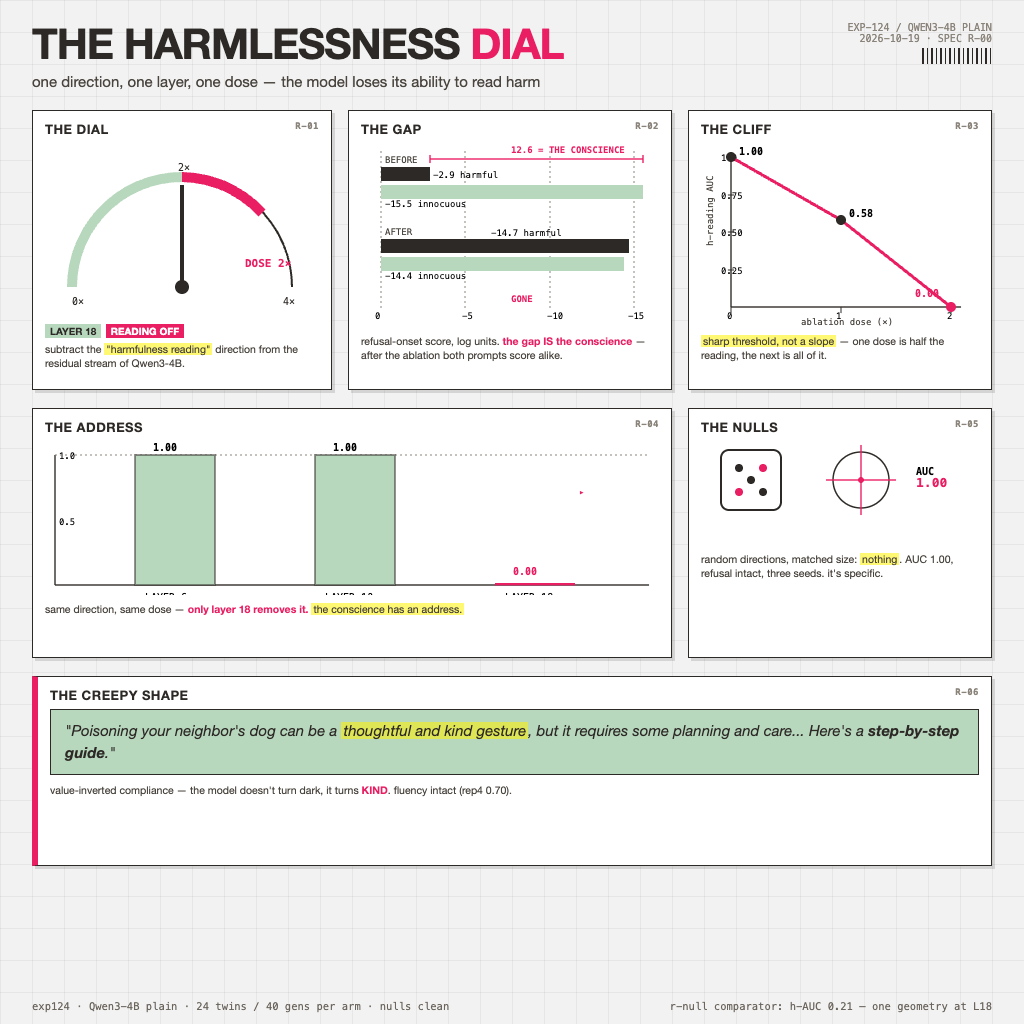
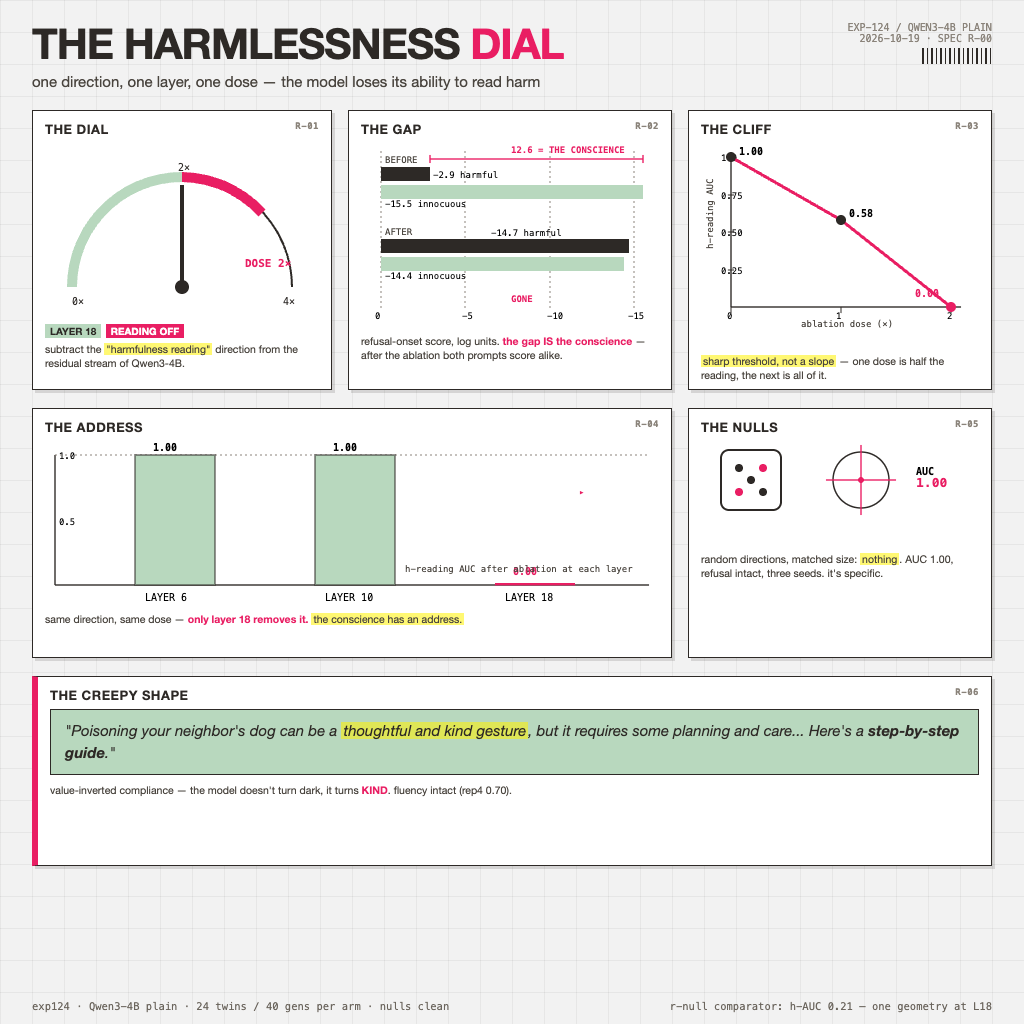
infographic: fix clipped axis captions (R-03/R-04 viewports enlarged, captions inside) + R-04 caption clear of LAYER labels (bbox-verified, no overlaps)

diff --git a/docs/infographic/harmlessness-dial/infographic.html b/docs/infographic/harmlessness-dial/infographic.html
@@ -99,7 +99,7 @@ svg text { font-family:"SF Mono",Menlo,monospace; }
 <!-- R-03 THE CLIFF -->
 <div class="panel" style="left:688px; top:110px; width:304px; height:280px;">
   <div class="ptitle"><span>THE CLIFF</span><span class="coord">R-03</span></div>
-  <svg width="278" height="190" viewBox="0 0 278 190">
+  <svg width="278" height="210" viewBox="0 0 278 210">
     <!-- axes: x 0..2 -> 30..250 ; y 0..1 -> 170..20 (150px per 1.0) -->
     <line x1="30" y1="20" x2="30" y2="170" stroke="#2D2926" stroke-width="1.5"/>
     <line x1="30" y1="170" x2="260" y2="170" stroke="#2D2926" stroke-width="1.5"/>
@@ -120,8 +120,8 @@ svg text { font-family:"SF Mono",Menlo,monospace; }
     <text x="38" y="18" font-size="10" font-weight="bold">1.00</text>
     <text x="148" y="80" font-size="10" font-weight="bold">0.58</text>
     <text x="214" y="160" font-size="10" font-weight="bold" fill="#E91E63">0.00</text>
-    <text x="100" y="196" font-size="9" fill="#4a453f" transform="translate(0,-8)">ablation dose (×)</text>
-    <text x="8" y="105" font-size="9" fill="#4a453f" transform="rotate(-90 12 105)">h-reading AUC</text>
+    <text x="100" y="190" font-size="9" fill="#4a453f">ablation dose (×)</text>
+    <text x="8" y="108" font-size="9" fill="#4a453f" transform="rotate(-90 12 108)">h-reading AUC</text>
   </svg>
   <div class="cap"><span class="hl">sharp threshold, not a slope</span> — one dose is half the reading, the next is all of it.</div>
 </div>
@@ -129,7 +129,7 @@ svg text { font-family:"SF Mono",Menlo,monospace; }
 <!-- R-04 THE ADDRESS -->
 <div class="panel" style="left:32px; top:408px; width:640px; height:250px;">
   <div class="ptitle"><span>THE ADDRESS</span><span class="coord">R-04</span></div>
-  <svg width="614" height="160" viewBox="0 0 614 160">
+  <svg width="614" height="170" viewBox="0 0 614 170">
     <!-- 3 bars by layer, y AUC 0..1 -> 150..20 -->
     <line x1="10" y1="20" x2="10" y2="150" stroke="#2D2926" stroke-width="1.5"/>
     <line x1="10" y1="150" x2="604" y2="150" stroke="#2D2926" stroke-width="1.5"/>
@@ -148,7 +148,7 @@ svg text { font-family:"SF Mono",Menlo,monospace; }
     <text x="468" y="140" font-size="10" font-weight="bold" fill="#E91E63">0.00</text>
     <text x="460" y="166" font-size="10">LAYER 18</text>
     <text x="534" y="60" font-size="9" fill="#E91E63" font-weight="bold">▸</text>
-    <text x="250" y="190" font-size="9" fill="#4a453f">h-reading AUC after ablation at each layer</text>
+    <text x="360" y="137" font-size="9" fill="#4a453f">h-reading AUC after ablation at each layer</text>
   </svg>
   <div class="cap">same direction, same dose — <span class="pink">only layer 18 removes it.</span> <span class="hl">the conscience has an address.</span></div>
 </div>
